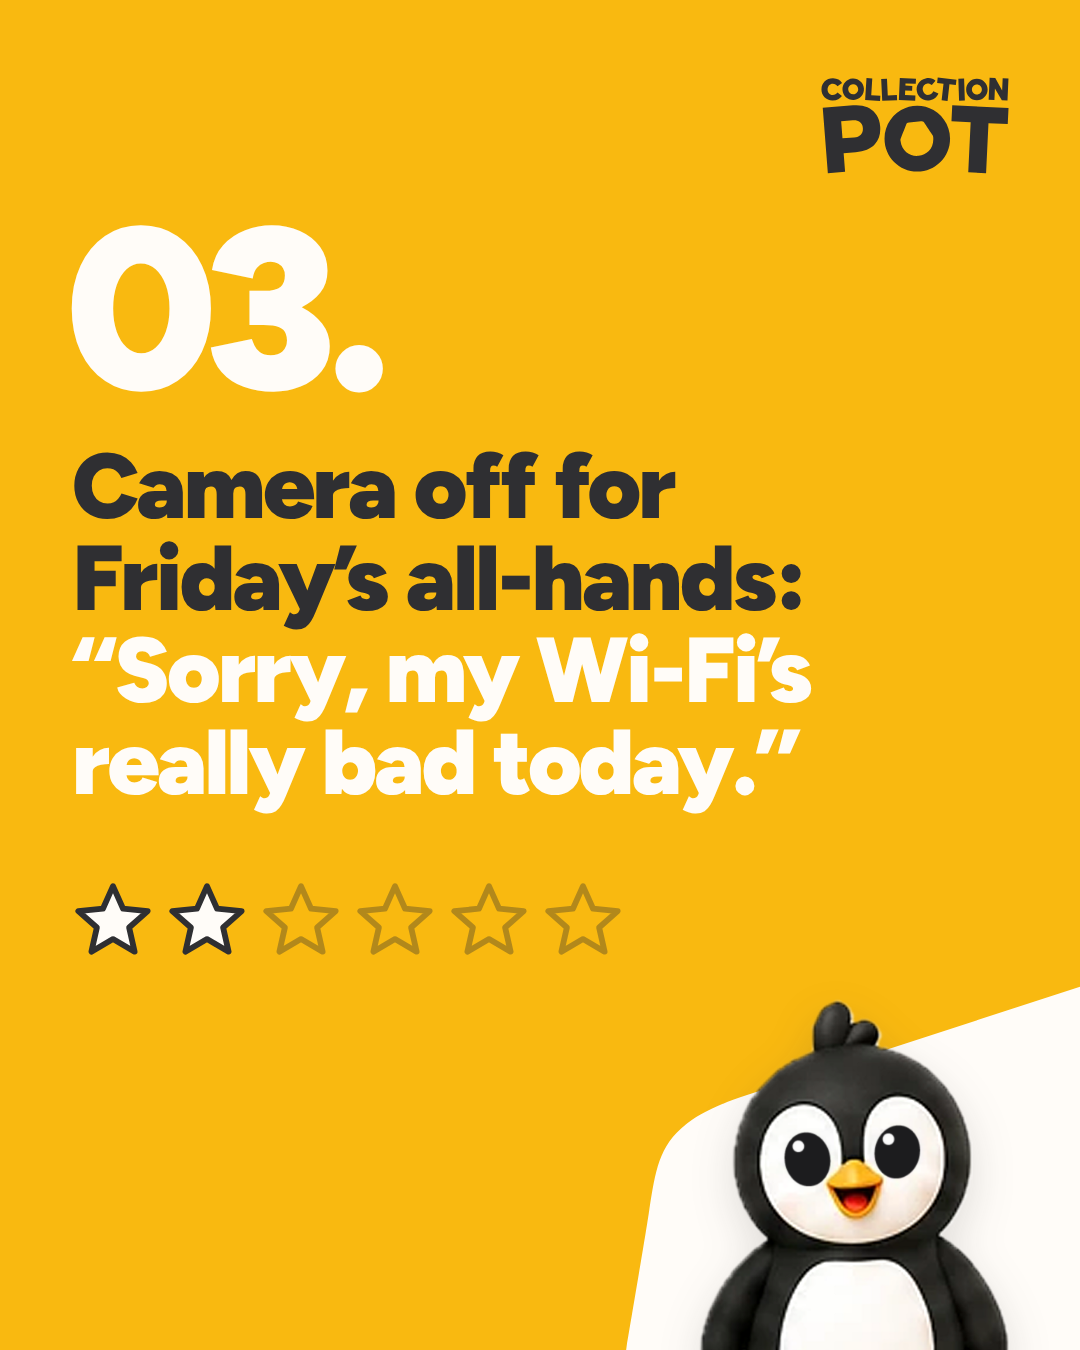
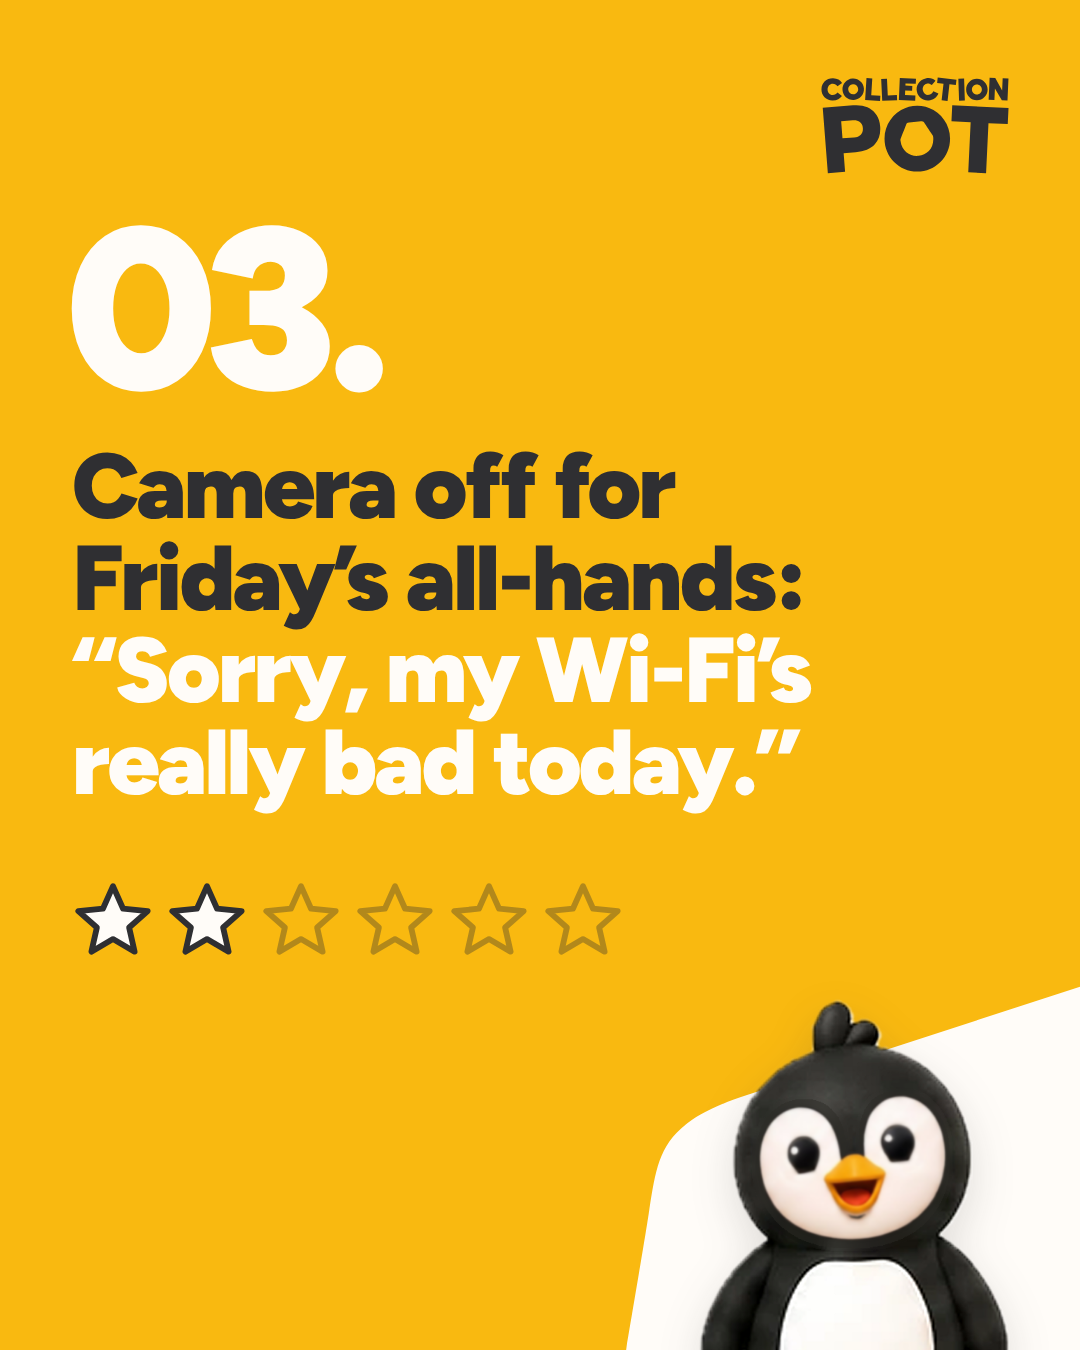
GTA 6 carousel: give Chip the brand face (upside-down Pot eye patches) on all slides
Claude-Session: https://claude.ai/code/session_011HgaDvzB2TFRzZhuJwdZ16

Changed region(s): [[0.7028, 0.8089, 0.8861, 0.9333]]

diff --git a/collection-pot/gta6-wanted-level/chip/fix_face.py b/collection-pot/gta6-wanted-level/chip/fix_face.py
@@ -1,0 +1,116 @@
+# Give a Chip render the brand face from ref/chip-eyes-reference.jpg: white eye patches shaped like an
+# upside-down Pot, oval pupils with a highlight, open beak. The old (round) face is painted out with the head
+# black, then the reference face is fitted to the old face's bounding box and composited on top.
+# Usage: python3 -I fix_face.py in.png out.png [--wink] [--blur 1.0] [--grow 1.0] [--dy 0]
+import cv2, numpy as np, sys, os
+a = sys.argv[1:]
+def opt(name, default):
+    if name in a: i = a.index(name); v = float(a[i + 1]); del a[i:i + 2]; return v
+    return default
+wink = '--wink' in a
+if wink: a.remove('--wink')
+blur = opt('--blur', 1.0); grow = opt('--grow', 1.0); dy = opt('--dy', 0.0)
+src, dst = a[0], a[1]
+here = os.path.dirname(os.path.abspath(__file__))
+
+def masks(rgb, region):
+    hsv = cv2.cvtColor(rgb, cv2.COLOR_BGR2HSV)
+    white = ((hsv[..., 2] > 175) & (hsv[..., 1] < 70) & region).astype(np.uint8)
+    white = cv2.morphologyEx(white, cv2.MORPH_OPEN, np.ones((3, 3), np.uint8))
+    n, lab, st, _ = cv2.connectedComponentsWithStats(white)
+    big = 1 + int(np.argmax(st[1:, 4])); face = (lab == big).astype(np.uint8)
+    # the two eye lobes may be separate components: add the next one if it's large and beside the first
+    if n > 2:
+        order = 1 + np.argsort(-st[1:, 4])
+        if st[order[1], 4] > 0.4 * st[big, 4]: face |= (lab == order[1]).astype(np.uint8)
+    cnts, _ = cv2.findContours(face, cv2.RETR_EXTERNAL, cv2.CHAIN_APPROX_SIMPLE)
+    filled = np.zeros_like(face); cv2.drawContours(filled, cnts, -1, 1, -1)
+    beak = (((hsv[..., 0] < 32) | (hsv[..., 0] > 165)) & (hsv[..., 1] > 110) & (hsv[..., 2] > 90) & region).astype(np.uint8)
+    n, lab, st, _ = cv2.connectedComponentsWithStats(beak)
+    if n > 1:
+        bb = 1 + int(np.argmax(st[1:, 4])); beak = (lab == bb).astype(np.uint8)
+        beak = cv2.morphologyEx(beak, cv2.MORPH_CLOSE, np.ones((9, 9), np.uint8))
+        c2, _ = cv2.findContours(beak, cv2.RETR_EXTERNAL, cv2.CHAIN_APPROX_SIMPLE)
+        beak = np.zeros_like(beak); cv2.drawContours(beak, c2, -1, 1, -1)
+    return filled, beak
+
+# --- reference face (RGBA) ---
+ref = cv2.imread(os.path.join(here, '..', 'ref', 'chip-eyes-reference.jpg'))
+rr = np.zeros(ref.shape[:2], bool); rr[560:1120, 40:700] = True
+rf, rb = masks(ref, rr)
+ref_face = cv2.dilate(rf | rb, np.ones((7, 7), np.uint8))            # bring the soft dark seam along
+rx, ry, rw, rh = cv2.boundingRect(rf | rb)
+ref_rgba = np.dstack([ref, (cv2.GaussianBlur(ref_face.astype(np.float32), (0, 0), 1.5) * 255).astype(np.uint8)])
+if wink:   # close the right eye: paint its pupil with the eye white, then draw a happy closed-eye arc
+    hsv = cv2.cvtColor(ref, cv2.COLOR_BGR2HSV)
+    dark = (hsv[..., 2] < 110) & (rf > 0)
+    right = np.zeros_like(dark); right[:, rx + rw // 2 + 40:] = True
+    n, lab, st, cen = cv2.connectedComponentsWithStats((dark & right & rr).astype(np.uint8))
+    k = 1 + int(np.argmax(st[1:, 4])); pm = cv2.dilate((lab == k).astype(np.uint8), np.ones((9, 9), np.uint8), iterations=2)
+    body = ref_rgba[..., :3].copy()
+    body = cv2.inpaint(body, pm * 255, 9, cv2.INPAINT_TELEA)
+    cx, cy = cen[k]; w_ = st[k, 2] * 1.25
+    cv2.ellipse(body, (int(cx), int(cy + w_ * 0.18)), (int(w_ * 0.62), int(w_ * 0.42)), 0, 200, 340, (34, 32, 32), int(w_ * 0.2), cv2.LINE_AA)
+    ref_rgba[..., :3] = body
+
+# --- target ---
+img = cv2.imread(src, cv2.IMREAD_UNCHANGED)
+rgb, alpha = img[..., :3].copy(), img[..., 3]
+H, W = alpha.shape
+hsv = cv2.cvtColor(rgb, cv2.COLOR_BGR2HSV)
+solid = alpha > 200
+# beak = the TOPMOST orange shape (feet and beanbag are lower down)
+orange = ((((hsv[..., 0] < 32) | (hsv[..., 0] > 165)) & (hsv[..., 1] > 110) & (hsv[..., 2] > 90)) & solid).astype(np.uint8)
+orange = cv2.morphologyEx(orange, cv2.MORPH_OPEN, np.ones((3, 3), np.uint8))
+n, lab, st, _ = cv2.connectedComponentsWithStats(orange)
+cands = [k for k in range(1, n) if st[k, 4] > 0.0015 * H * W]
+k = min(cands, key=lambda k: st[k, 1])
+bx, by, bw, bh = st[k, :4]
+tb = cv2.morphologyEx((lab == k).astype(np.uint8), cv2.MORPH_CLOSE, np.ones((9, 9), np.uint8))
+c2, _ = cv2.findContours(tb, cv2.RETR_EXTERNAL, cv2.CHAIN_APPROX_SIMPLE); tb = np.zeros_like(tb); cv2.drawContours(tb, c2, -1, 1, -1)
+# face = white pixels around the beak, above the neck; erode to break any bridge to the belly, keep lobes beside/above the beak
+white = ((hsv[..., 2] > 175) & (hsv[..., 1] < 70) & solid).astype(np.uint8)
+white[int(by + bh * 1.15):] = 0
+er = cv2.erode(white, np.ones((5, 5), np.uint8), iterations=2)
+n, lab, st, _ = cv2.connectedComponentsWithStats(er)
+keep = np.zeros_like(er)
+for j in range(1, n):
+    x, y, w, h, ar = st[j]
+    if ar < 0.002 * H * W: continue
+    if y < by and x < bx + bw * 3.5 and x + w > bx - bw * 2.5: keep |= (lab == j).astype(np.uint8)
+face = keep
+# grow back into the white, allowing a little further down than the detection cut so the old chin is fully removed
+white2 = ((hsv[..., 2] > 150) & (hsv[..., 1] < 80) & solid).astype(np.uint8)
+# find the bottom of the old face: scan down under the beak until the white gives way to the black neck band
+V = hsv[..., 2]
+c0, c1 = int(bx + bw * 0.35), int(bx + bw * 0.65)          # narrow band under the middle of the beak (the chin's lowest point)
+cut, run, seen = int(by + bh * 0.8), 0, False      # skip the beak's own dark outline: wait until white is seen, then the black band
+while cut < H - 1 and run < 3:
+    m = V[cut, c0:c1].max()
+    if m > 200: seen = True
+    run = run + 1 if (seen and m < 70) else 0
+    cut += 1
+white2 = ((V > 90) & (hsv[..., 1] < 90) & solid).astype(np.uint8)   # include the soft anti-aliased edge
+white2[cut + 2:] = 0
+for _ in range(60): face = cv2.dilate(face, np.ones((3, 3), np.uint8)) & white2
+c2, _ = cv2.findContours(face, cv2.RETR_EXTERNAL, cv2.CHAIN_APPROX_SIMPLE); tf = np.zeros_like(face); cv2.drawContours(tf, c2, -1, 1, -1)
+old = cv2.dilate(tf | tb, np.ones((5, 5), np.uint8), iterations=5)
+tx, ty, tw, th = cv2.boundingRect(tf)
+# paint the old face out with the head black (inpaint from the surrounding head)
+painted = cv2.inpaint(rgb, old * 255, 11, cv2.INPAINT_TELEA)
+ring = (cv2.dilate(old, np.ones((15, 15), np.uint8)) > 0) & (old == 0) & solid
+headblack = np.median(rgb[ring], axis=0)
+inner = cv2.erode(old, np.ones((9, 9), np.uint8)) > 0
+painted[inner] = (painted[inner] * 0.5 + headblack * 0.5).astype(np.uint8)
+soft = np.minimum(1, cv2.GaussianBlur(cv2.dilate(old, np.ones((21, 21), np.uint8)).astype(np.float32), (0, 0), 4) * 1.05)[..., None]   # =1 over the old face, fades outside it
+painted = (rgb.astype(np.float32) * (1 - soft) + painted.astype(np.float32) * soft).astype(np.uint8)
+# fit the reference face: uniform scale by face width, centred on the old face, tops aligned
+rfx, rfy, rfw, rfh = cv2.boundingRect(rf)
+sc = tw / rfw * grow
+M = np.float32([[sc, 0, tx + tw / 2 - (rfx + rfw / 2) * sc], [0, sc, ty + dy - rfy * sc]])
+warp = cv2.warpAffine(ref_rgba, M, (W, H), flags=cv2.INTER_AREA if sc < 1 else cv2.INTER_CUBIC, borderValue=(0, 0, 0, 0))
+if blur > 0: warp = cv2.GaussianBlur(warp, (0, 0), blur)
+la = (warp[..., 3:4].astype(np.float32) / 255) * (cv2.erode(solid.astype(np.uint8), np.ones((7, 7), np.uint8))[..., None])
+res = (painted.astype(np.float32) * (1 - la) + warp[..., :3].astype(np.float32) * la).clip(0, 255).astype(np.uint8)
+sx = sy = sc
+cv2.imwrite(dst, np.dstack([res, alpha])); print(dst, 'face box', (tx, ty, tw, th), 'scale', round(sx, 3), round(sy, 3))

diff --git a/collection-pot/gta6-wanted-level/README.md b/collection-pot/gta6-wanted-level/README.md
@@ -26,10 +26,14 @@ What's your wanted level this week? Tag the colleague who's on six stars. ⭐⭐
 ## Guardrails
 No Rockstar/GTA logos, art, characters or fonts; the wanted-level stars and "Vice City" carry the reference.
 
-## Chip's eyes
-Chip's pupils follow `ref/chip-eyes-reference.jpg`: large, glossy, slightly tilted black ovals with one upper-left highlight.
-The current Chips had small round pupils, so they were repainted with `chip/fix_eyes.py` (originals in `chip/orig/`).
-Run it on any new Chip render too: `python3 -I chip/fix_eyes.py in.png out.png --scale 1.1` (add `--center 0.6` if the pupils sit off to the side).
+## Chip's face (brand rule)
+Chip's white eye patches are shaped like an **upside-down Pot** (rounded dome on top, straight sides tapering down
+towards the beak), as in `ref/chip-eyes-reference.jpg`. The current Chips had round patches, so `chip/fix_face.py`
+paints the old face out and fits the reference face (eye patches, pupils, beak) onto each head; `--wink` closes the
+right eye. Originals are in `chip/orig/`. Run it on any new Chip render that comes out with round eyes:
+`python3 -I chip/fix_face.py in.png out.png [--wink] --blur 1.2` (use `--blur 0.6` for sharp, high-res renders).
+When generating new Chips, add to the prompt: "white eye patches shaped like an upside-down pot (rounded top, straight
+sides tapering towards the beak), not round".
 
 ## Finishing the Chip poses (needs ~16 Higgsfield credits)
 Placeholders are cut from `ref/chip-character-sheet.png` (low-res). To replace them:
